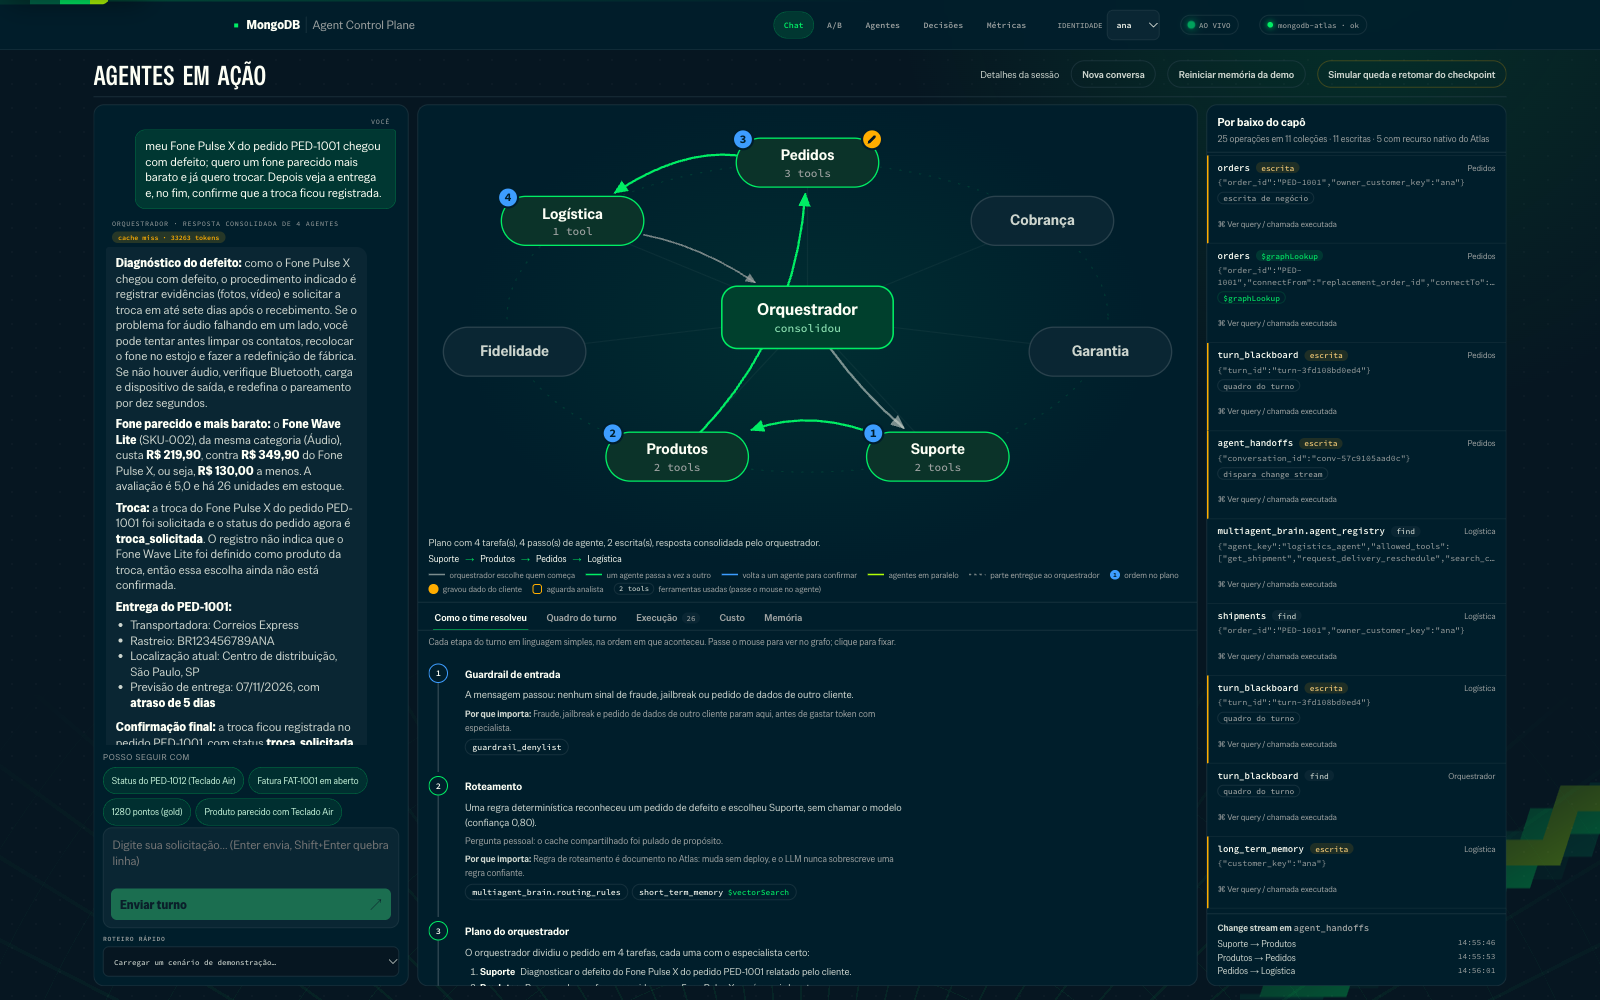
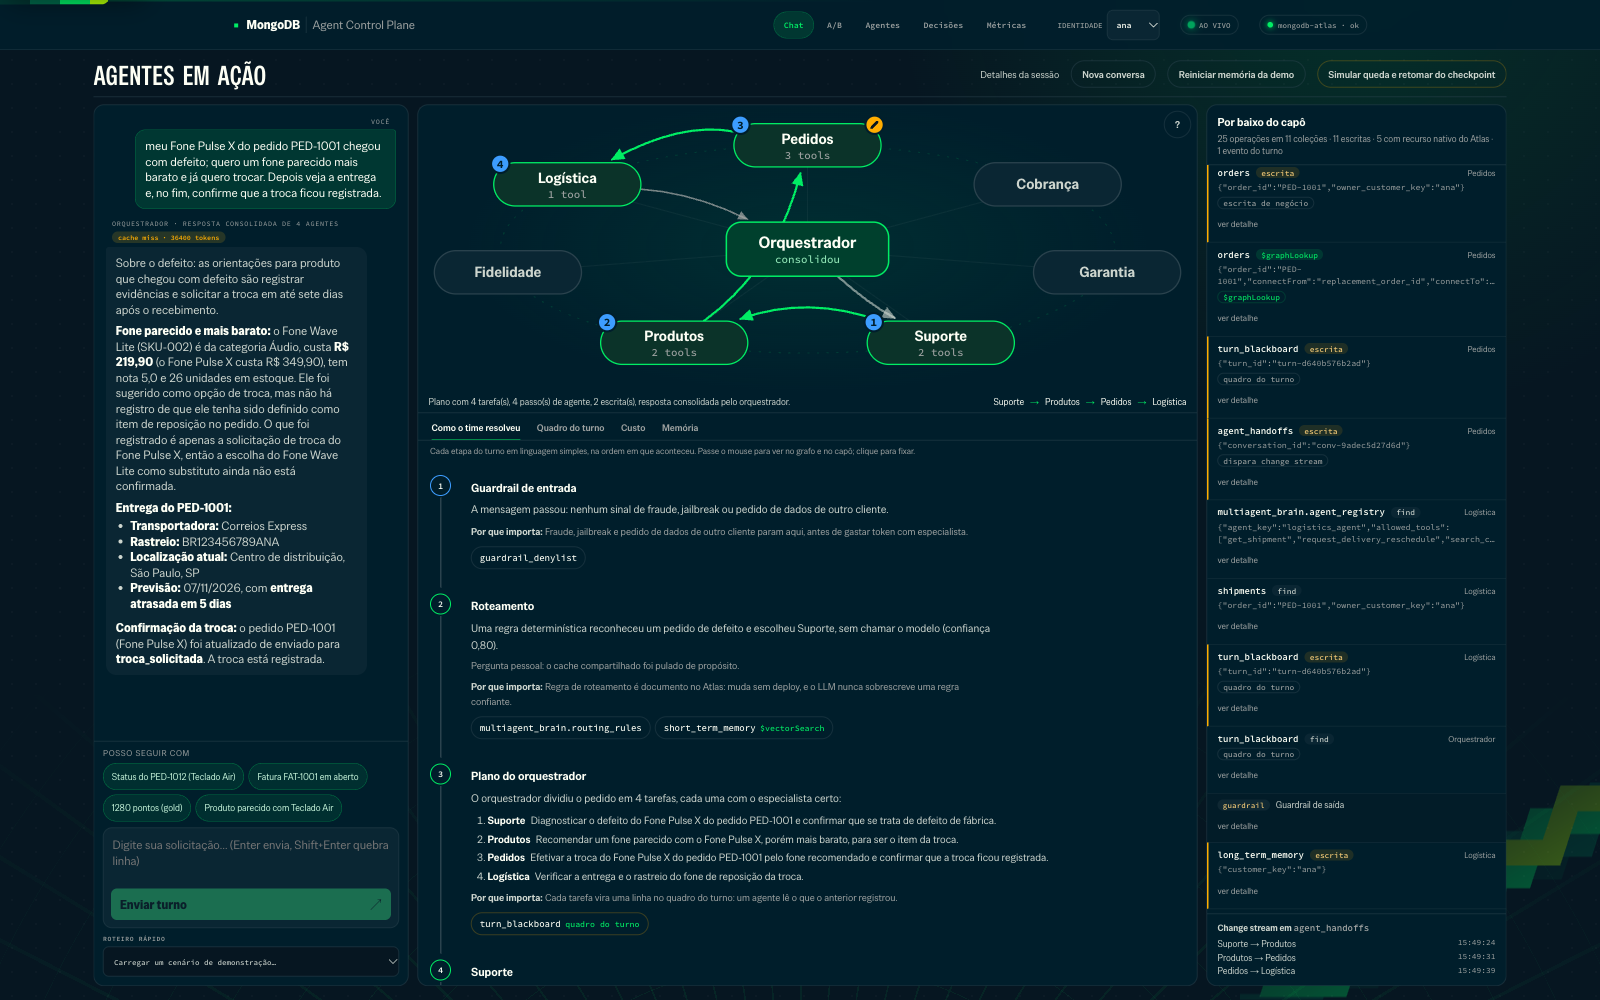
fix(ui): narrativa nunca descreve escrita pausada como registrada; screenshots do Chat novo
Etapa de um agente cuja escrita aguarda o analista (ou foi recusada pelo servidor) passa a
dizer 'pediu …, que aguarda o analista (nada gravado ainda)'. Screenshots 01, 03, 08 e 09
recapturados no layout novo contra o Atlas.

diff --git a/frontend/src/turnNarrative.js b/frontend/src/turnNarrative.js
@@ -34,6 +34,13 @@ const COLLECTION_VERBS = {
   customer_memory: ['usou o orçamento guardado na memória como filtro'],
 };
 
+const WRITE_NOUNS = {
+  request_order_status_change: 'a mudança de status do pedido',
+  redeem_reward: 'o resgate de pontos',
+  request_delivery_reschedule: 'o reagendamento da entrega',
+  open_support_ticket: 'o chamado de atendimento',
+};
+
 export const WHY = {
   guardrail: 'Fraude, jailbreak e pedido de dados de outro cliente param aqui, antes de gastar token com especialista.',
   blocked: 'Nenhum agente rodou: zero token de especialista, e o bloqueio fica auditado no Atlas.',
@@ -334,7 +341,15 @@ export function narrateTurn(events = [], { labels = {}, live = false } = {}) {
     if (Array.isArray(result.tools_called)) {
       for (const tool of result.tools_called) {
         if (tool === 'transfer_to_agent') continue;
-        addVerb(step, TOOL_VERBS[tool] || `usou ${tool}`, WRITE_TOOLS.has(tool) && (result.writes || []).includes(tool));
+        const wrote = (result.writes || []).includes(tool);
+        if (WRITE_TOOLS.has(tool) && !wrote) {
+          // Pediu a escrita, mas ela NÃO aconteceu: pausada para o analista ou recusada pelos portões do servidor.
+          addVerb(step, result.pending_approval
+            ? `pediu ${WRITE_NOUNS[tool] || tool}, que aguarda o analista (nada gravado ainda)`
+            : `tentou ${WRITE_NOUNS[tool] || tool}, mas o servidor não executou (nada gravado)`, false);
+          continue;
+        }
+        addVerb(step, TOOL_VERBS[tool] || `usou ${tool}`, WRITE_TOOLS.has(tool) && wrote);
       }
       if (result.task && !step.task) step.task = result.task;
       step.tools = [...new Set([...(step.tools || []), ...result.tools_called.filter((tool) => tool !== 'transfer_to_agent')])];
